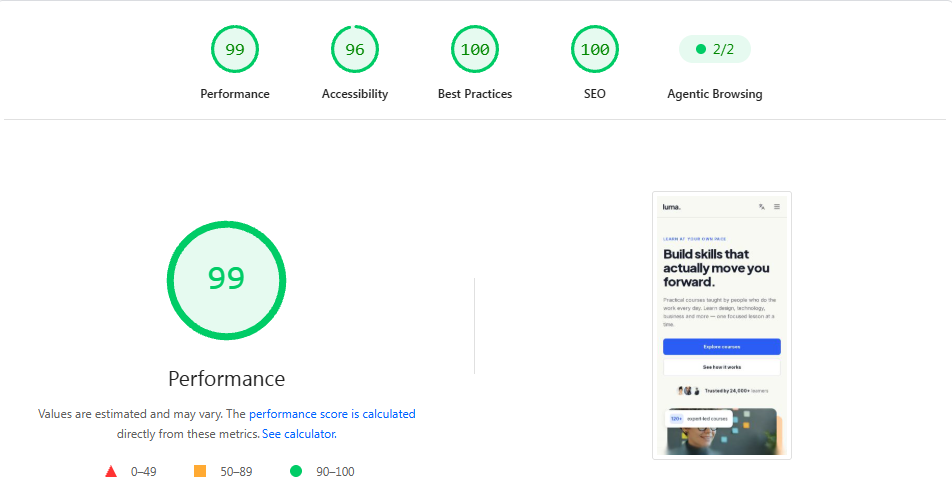
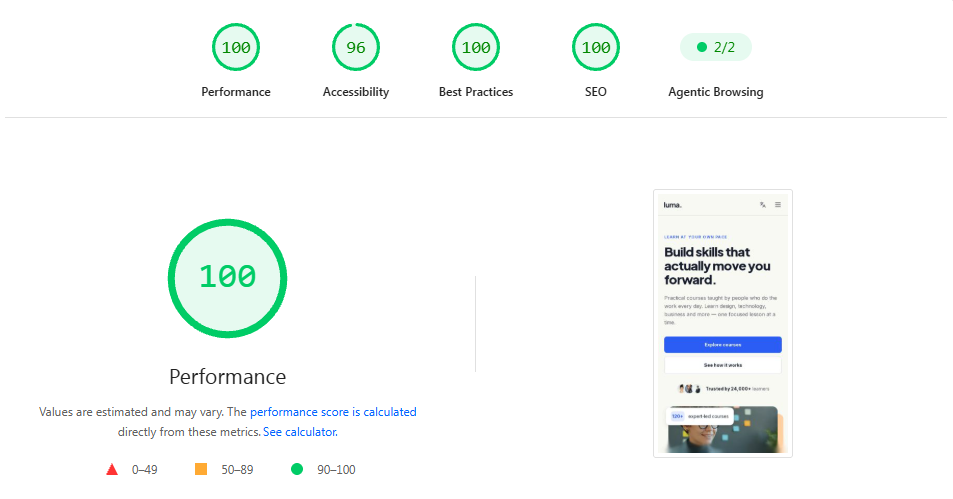
docs: update mobile Lighthouse screenshot (Performance 100)

diff --git a/README.md b/README.md
@@ -12,7 +12,7 @@ A responsive landing page for **Luma**, a fictional online-courses platform, bui
 
 | Desktop | Mobile |
 |---|---|
-| ![Lighthouse desktop: Performance 100, Accessibility 96, Best Practices 100, SEO 100](docs/lighthouse-desktop.png) | ![Lighthouse mobile: Performance 99, Accessibility 96, Best Practices 100, SEO 100](docs/lighthouse-mobile.png) |
+| ![Lighthouse desktop: Performance 100, Accessibility 96, Best Practices 100, SEO 100](docs/lighthouse-desktop.png) | ![Lighthouse mobile: Performance 100, Accessibility 96, Best Practices 100, SEO 100](docs/lighthouse-mobile.png) |
 
 The screenshots above (Accessibility 96) were taken before the contrast fix described under [Accessibility](#accessibility).
 
